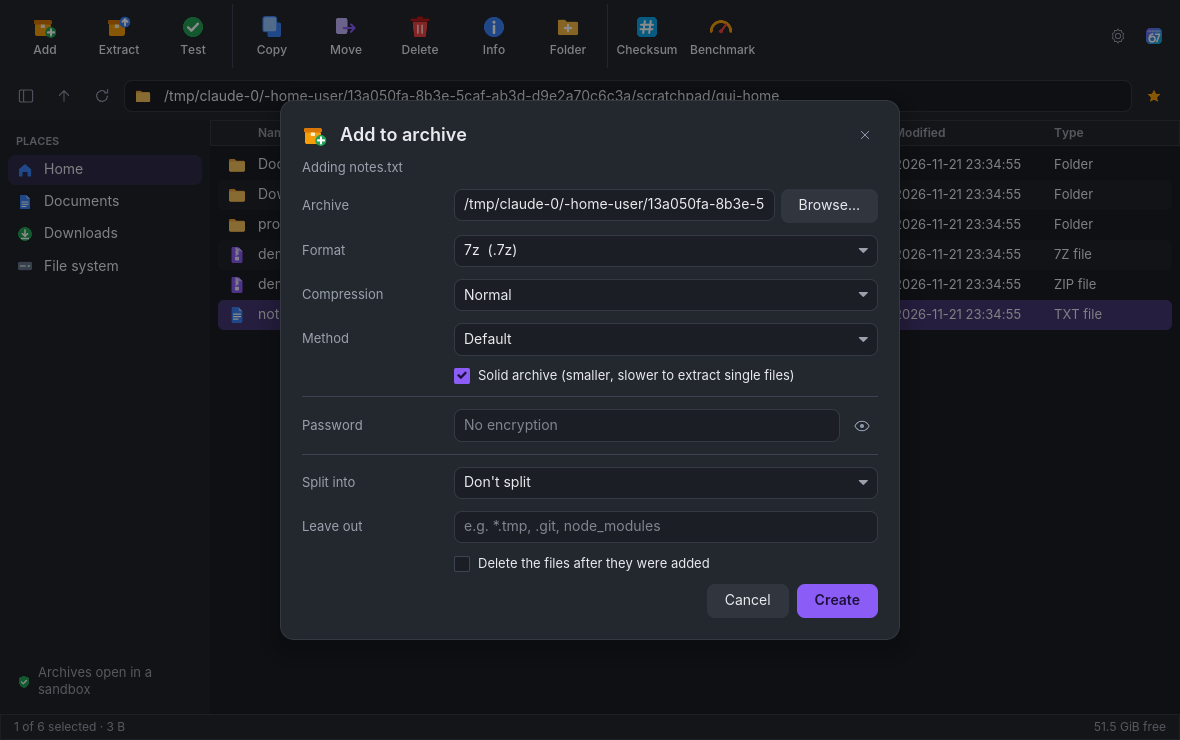
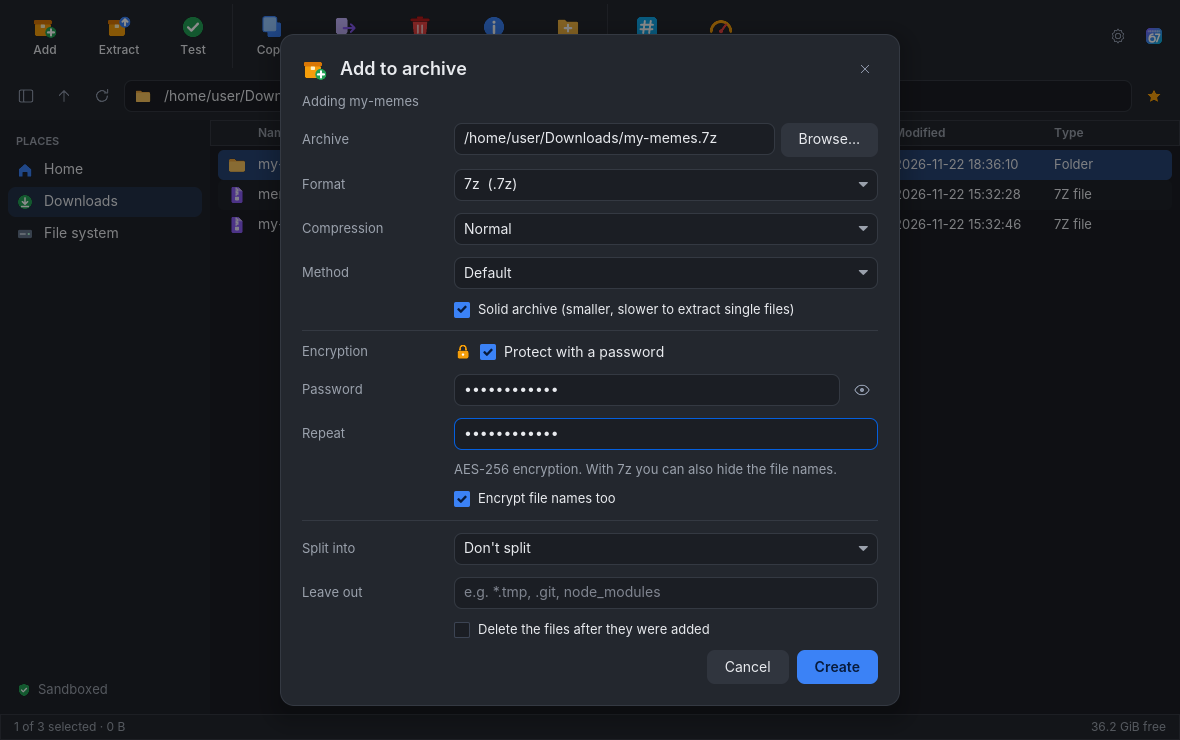
Version 0.1.1: changelog and new screenshots
- Version 0.1.1 in Cargo.toml and the AppStream metadata, with a
  release note; CHANGELOG.md lists everything since 0.1.0.
- The screenshots from the website (light and dark) replace the old
  ones at the top of the README; the Add dialog screenshot shows the
  new "Protect with a password" option. The AppStream file lists the
  screenshots.
- README: UDF in the formats table, the password option and menus.

Claude-Session: https://claude.ai/code/session_01VEuAGSdL4XKKHvBvJbXrh5

diff --git a/README.md b/README.md
@@ -2,9 +2,12 @@
 
 A fast, secure archive manager for Linux, in the spirit of 7-Zip.
 
-![67zip browsing a 7z archive](docs/screenshots/archive-light.png)
+<p align="center">
+  <img src="docs/screenshots/app-light.png" width="49%" alt="67zip browsing a 7z archive in light mode">
+  <img src="docs/screenshots/app-dark.png" width="49%" alt="67zip in dark mode">
+</p>
 
-- **Own archive engine in safe Rust.** The 7z, zip, tar and RAR formats,
+- **Own archive engine in safe Rust.** The 7z, zip, tar, RAR, ISO and UDF formats,
   gzip framing, the multi-core bzip2 decoder, the RAR decompressors, safe
   extraction and the sandbox are written for 67zip. `unsafe`
   code is forbidden in every 67zip crate. Compression algorithms and
@@ -28,7 +31,7 @@ A fast, secure archive manager for Linux, in the spirit of 7-Zip.
 | tar | yes | yes | ustar, PAX, GNU long names; plain or with gz, bz2, xz, zst, lz, lzma |
 | gz, bz2, xz, zst, lzma, lz | yes | yes | single files |
 | Split archives | yes | yes | open from any part: `.001`, `.part1.7z` / `.part01.rar`-style names, `.7z.part1`, PKZIP `.z01` … `.zip`, RAR `.rar` + `.r00` …, `split`'s `.aa`; create `.001` parts with "Split into" or `-v100m` |
-| iso | yes | no | ISO 9660 with Rock Ridge (permissions, links) and Joliet (Unicode names) |
+| iso, udf | yes | no | Disc images. UDF (ISO/IEC 13346, revisions 1.02–2.60: DVDs, Blu-rays incl. the 2.50 metadata partition, sparable DVD-RW, long Unicode names, files over 4 GB, links, permissions) and ISO 9660 with Rock Ridge (permissions, links) and Joliet (Unicode names). Images with both use UDF. Not supported: packet-written CD-R/DVD-R with a virtual allocation table |
 | rar | yes | no | RAR5 and RAR 2.0–4.x: solid, multi-volume (`.part1.rar` or `.rar` + `.r00`), self-extracting `.exe`/`.sfx`, AES-256 / AES-128 including encrypted file names, BLAKE2sp checksums, links, comments, file versions. Not supported: RAR 1.5 compression and RAR 2.0 encryption (1990s archives) |
 
 ## Install
@@ -46,7 +49,8 @@ sudo ./install.sh --system    # or for everyone into /usr/local, after building
 The script installs:
 - `67zip` (the app) and `67z` (the command line tool);
 - a menu entry, the icon, and "Open with" for archive files;
-- "Extract here" and "Add to archive" menus for Dolphin, Nemo and Nautilus.
+- "Extract here", "Add to archive" and "Compress to .zip with a password"
+  menus for Dolphin, Nemo and Nautilus.
 
 Remove everything with `./install.sh --uninstall`.
 
@@ -71,7 +75,9 @@ Wayland) and working OpenGL or Vulkan drivers, as any desktop provides.
 - **Toolbar:** Add, Extract, Test, Copy, Move, Delete, Info, New folder,
   Checksum, Benchmark.
 - **Right-click** for Extract here, Extract to "name/", Add to "name.7z",
-  and more.
+  Add to zip with a password, and more.
+- **Passwords:** tick "Protect with a password" in the Add dialog (7z and
+  zip, AES-256). With 7z you can also encrypt the file names.
 - **Drag files onto the window.** In a folder, this opens or compresses
   them; inside an archive, it adds them.
 - **Keys:**

diff --git a/CHANGELOG.md b/CHANGELOG.md
@@ -1,0 +1,61 @@
+# Changelog
+
+## 0.1.1 — 2026-11-22
+
+### New
+
+- **UDF disc images** (ISO/IEC 13346, the file system of DVDs, Blu-rays and
+  many `.iso` files), revisions 1.02 to 2.60. This includes Blu-ray's
+  metadata partition, sparable DVD-RW volumes, long Unicode names, files
+  over 4 GB, sparse files, links, times and permissions. Images that hold
+  both UDF and ISO 9660 open with UDF; if their UDF part is damaged, the
+  ISO 9660 part is shown with a note. Not supported: packet-written
+  CD-R/DVD-R discs with a virtual allocation table.
+- **RAR archives** (reading): RAR5 and RAR 2.0–4.x, solid, multi-volume
+  and self-extracting archives, AES-256 / AES-128 encryption including
+  encrypted names, BLAKE2sp checksums, links, comments and file versions.
+- **ISO 9660 images** with Rock Ridge and Joliet.
+- **Split archives** open from any part in all common naming schemes, and
+  "Split into" creates `.001` parts.
+- **Optional secure deletion**: "Securely" (or `67z a -sshred`) overwrites
+  the original files with random data before deleting them, and decrypted
+  temporary copies of files opened from an archive are wiped when 67zip
+  closes. A notice (with "Don't warn me again") says when those copies
+  had to go to a disk instead of memory.
+- Archives inside archives can be changed; the outer archive is updated.
+- Our own multi-core bzip2 decoder.
+- An AppImage build in CI.
+
+### Changed
+
+- **Passwords are easy to find.** The Add dialog has an "Encryption:
+  Protect with a password" checkbox for 7z and zip (AES-256), shown greyed
+  out with the reason for formats without encryption. Ticking it shows the
+  password fields with the cursor already in place.
+- New "Add to zip with a password…" in the right-click menu, and "Compress
+  to .zip with a password…" in Dolphin, Nemo and Nautilus
+  (`67zip --add-with-password FILES...`).
+- `67z a -mem=ZipCrypto` now says that AES-256 is used instead (ZipCrypto
+  is easily broken and 67zip never creates it); an unknown `-mem` value is
+  an error.
+- Relicensed under the MIT license.
+- New screenshots.
+
+### Security
+
+- Hardening after a review and a penetration test: stricter sandbox rules
+  (no `TIOCSTI`, no signals to other processes, no namespaces, no x32
+  system calls), a staging folder for everything the worker writes,
+  escaped control characters in names and messages, permissions limited by
+  the umask, a free-space check against archives that lie about their
+  size, overflow checks for archive sizes, and files opened from archives
+  lose their execute permission.
+- The RAR, UDF and other parsers were fuzzed; every crash found was fixed
+  and kept as a regression test.
+
+## 0.1.0 — 2026-11-22
+
+First version: the 67zip app and the `67z` command line tool, with our own
+7z, zip, tar and gz/bz2/xz/zst/lzma/lz engine in safe Rust, a sandboxed
+worker process (Landlock and seccomp), multi-threaded LZMA2, AES-256
+encryption, a benchmark, checksums, desktop integration and packaging.
